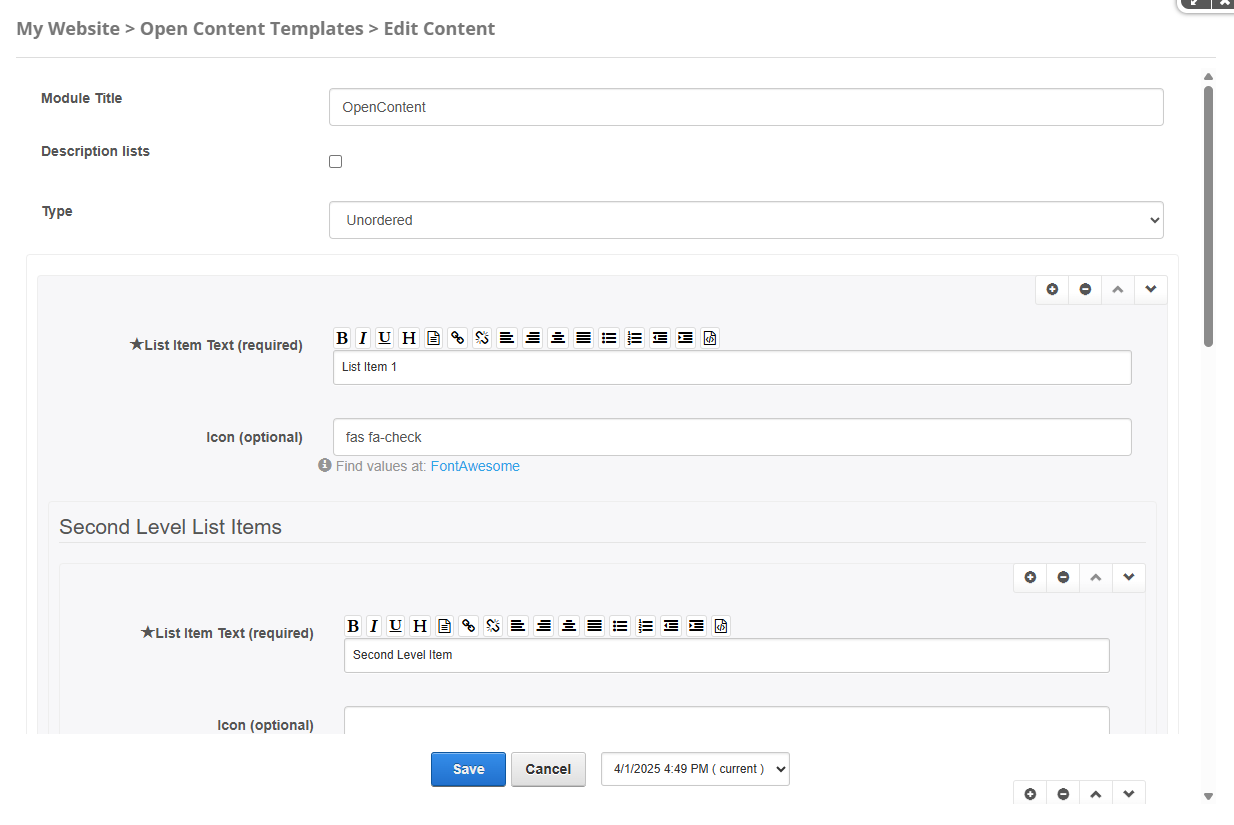
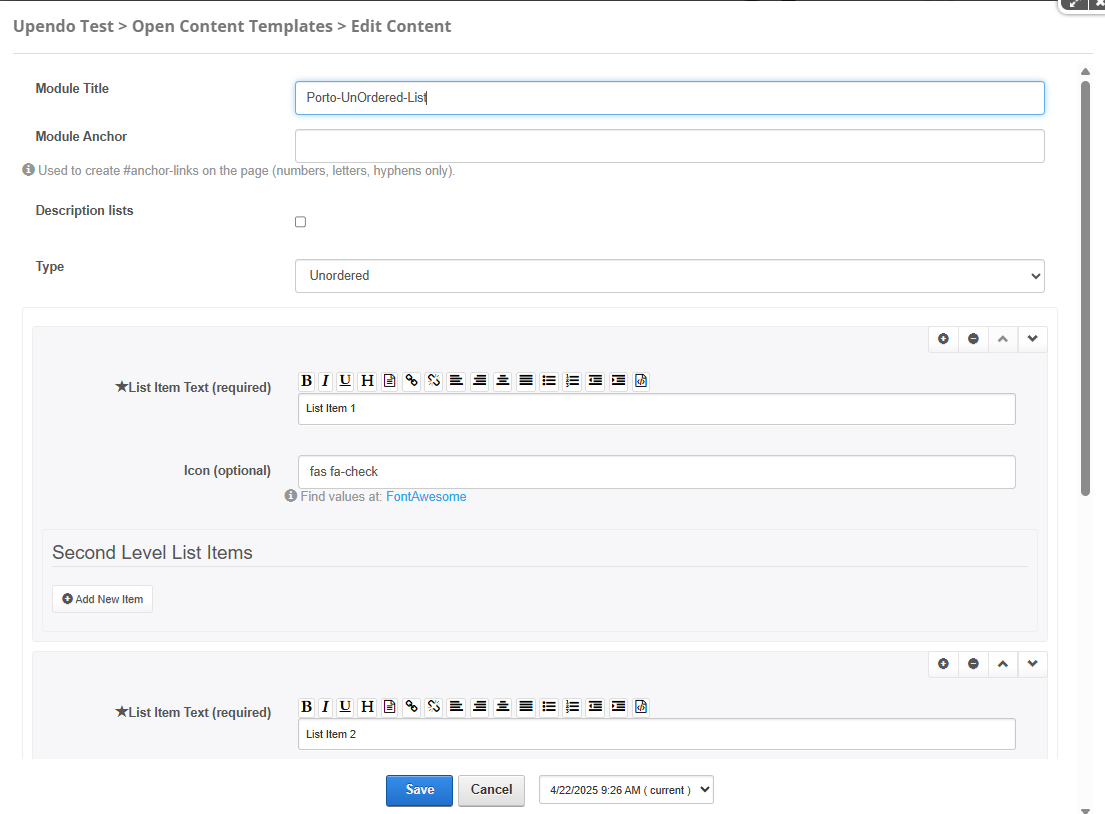
Update Porto-UnOrdered-List docs

diff --git a/Porto-UnOrdered-List/Porto-UnOrdered-List.html b/Porto-UnOrdered-List/Porto-UnOrdered-List.html
@@ -213,7 +213,6 @@
         <h3>Edit</h3>
         <img src="image/edit.png" alt="Edit example" class="component-image">
         <img src="image/edit1.png" alt="Edit example" class="component-image">
-        <img src="image/edit2.png" alt="Edit example" class="component-image">
 
         <h3 class="Head">Properties</h3>
         <table class="properties-table">
@@ -231,7 +230,13 @@
                     <td>The Module Title property is used to define the module's title in the DNN page administration. This title serves as a
                     visual identifier in the administration environment, making it easier to organize and recognize the module within the
                     page.</td>
-            </tr>
+                </tr>
+                <tr>
+                    <td>Module Anchor</td>
+                    <td></td>
+                    <td>Used to create anchor links on the page. This allows users to link directly to the module using a unique
+                        identifier. Only letters, numbers, and hyphens are allowed.</td>
+                </tr>
                 <!-- Items -->
                 <tr>
                     <td rowspan="1"><strong>Items</strong></td>
